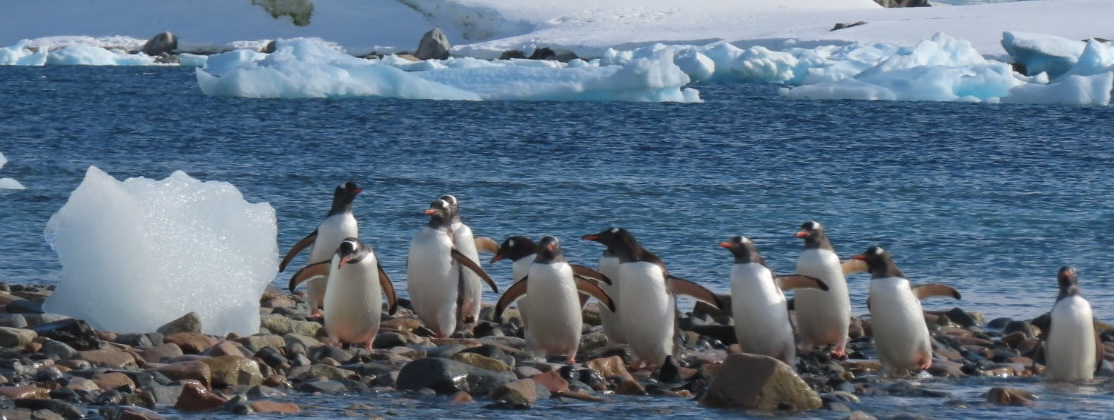
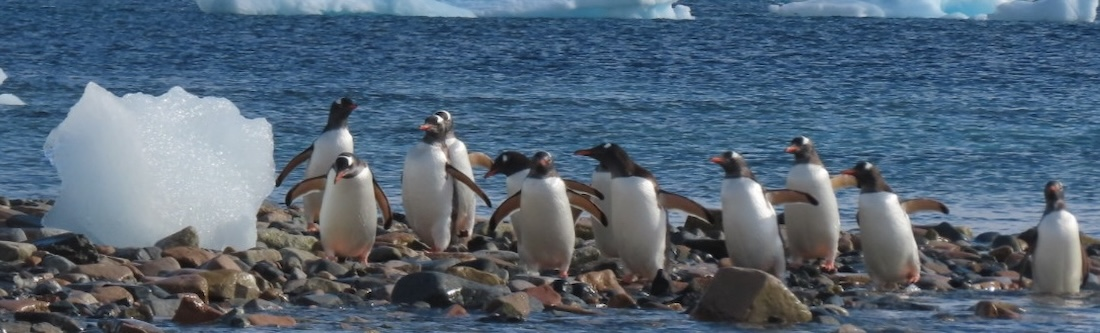
update to hero images

diff --git a/Travel/disney.html b/Travel/disney.html
@@ -6,12 +6,12 @@
 </style>
 
 <div class="container my-5">
-   <div class="hero" data-hero="../Images/ThemeParks/Disney2.jpeg">
+  <div class="hero" data-hero="../Images/HeroImages/disney-hero">
     <div class="hero-content text-center">
       <h1 class="hero-title">Disney Vacation Packages</h1>
     </div>
   </div>
-  
+
   <br />
   <p class="intro-text">
     You love Disney--so do we! Regan is a Disney World Passholder and loves
@@ -23,42 +23,49 @@
   </p>
 
   <div class="gallery">
-      <div class="row g-3 justify-content-center">
-        <div class="col-6 col-md-4 col-lg-2">
-          <img
-            src="../Images/ThemeParks/Disney5.jpeg"
-            alt=""
-            class="img-fluid rounded shadow-sm"
-          />
-        </div>
-        <div class="col-6 col-md-4 col-lg-2">
-          <img
-            src="../Images/ThemeParks/Disney1.jpeg"
-            alt=""
-            class="img-fluid rounded shadow-sm"
-          />
-        </div>
-        <div class="col-6 col-md-4 col-lg-2">
-          <img
-            src="../Images/ThemeParks/Disney3.jpeg"
-            alt=""
-            class="img-fluid rounded shadow-sm"
-          />
-        </div>
-        <div class="col-6 col-md-4 col-lg-2">
-          <img
-            src="../Images/ThemeParks/Disney4.jpeg"
-            alt=""
-            class="img-fluid rounded shadow-sm"
-          />
-        </div>
-                <div class="col-6 col-md-4 col-lg-2">
-          <img
-            src="../Images/ThemeParks/Disney6.jpeg"
-            alt=""
-            class="img-fluid rounded shadow-sm"
-          />
-        </div>
+    <div class="row g-3 justify-content-center">
+      <div class="col-6 col-md-4 col-lg-2">
+        <img
+          src="../Images/ThemeParks/Disney5.jpeg"
+          alt=""
+          class="img-fluid rounded shadow-sm"
+        />
       </div>
+      <div class="col-6 col-md-4 col-lg-2">
+        <img
+          src="../Images/ThemeParks/Disney2.jpeg"
+          alt=""
+          class="img-fluid rounded shadow-sm"
+        />
+      </div>
+      <div class="col-6 col-md-4 col-lg-2">
+        <img
+          src="../Images/ThemeParks/Disney1.jpeg"
+          alt=""
+          class="img-fluid rounded shadow-sm"
+        />
+      </div>
+      <div class="col-6 col-md-4 col-lg-2">
+        <img
+          src="../Images/ThemeParks/Disney3.jpeg"
+          alt=""
+          class="img-fluid rounded shadow-sm"
+        />
+      </div>
+      <div class="col-6 col-md-4 col-lg-2">
+        <img
+          src="../Images/ThemeParks/Disney4.jpeg"
+          alt=""
+          class="img-fluid rounded shadow-sm"
+        />
+      </div>
+      <div class="col-6 col-md-4 col-lg-2">
+        <img
+          src="../Images/ThemeParks/Disney6.jpeg"
+          alt=""
+          class="img-fluid rounded shadow-sm"
+        />
+      </div>
+    </div>
   </div>
 </div>

diff --git a/Travel/whales.html b/Travel/whales.html
@@ -6,7 +6,7 @@
 </style>
 
 <div class="container my-5">
-         <div class="hero" data-hero="../Images/Churchill/Churchill33.jpeg">
+         <div class="hero" data-hero="../Images/HeroImages/whale-hero.jpeg">
     <div class="hero-content text-center">
       <h1 class="hero-title">Whale Adventures</h1>
     </div>
@@ -40,6 +40,18 @@
           <div class="col-6 col-md-4 col-lg-2">
             <img
               src="Images/FrenchPolynesia/FrenchPolynesia9.jpeg"
+              class="img-fluid rounded shadow-sm"
+            />
+          </div>
+                    <div class="col-6 col-md-4 col-lg-2">
+            <img
+              src="Images/Iceland/Iceland16.jpeg"
+              class="img-fluid rounded shadow-sm"
+            />
+          </div>
+                    <div class="col-6 col-md-4 col-lg-2">
+            <img
+              src="Images/Iceland/Iceland17.jpeg"
               class="img-fluid rounded shadow-sm"
             />
           </div>

diff --git a/specials.html b/specials.html
@@ -1,5 +1,5 @@
   <div class="container my-5">
-  <div class="hero" data-hero="../Images/18RiverCruise/18RiverCruise1.jpeg">
+  <div class="hero" data-hero="../Images/HeroImages/specials-hero">
   <div class="hero-content text-center">
     <h1 class="hero-title">Specials</h1>
      <p class="hero-p">Check back here for our latest specials, or sign up for our newsletter to be kept up-to-date!</p>

diff --git a/Travel/polarbears.html b/Travel/polarbears.html
@@ -13,7 +13,7 @@
     <ul id="toc-list" class="list-unstyled mb-0"></ul>
   </div>
 
-  <div class="hero" data-hero="../Images/Churchill/Churchill33.jpeg">
+  <div class="hero" data-hero="../Images/HeroImages/polarbear-hero.jpeg">
     <div class="hero-content text-center">
       <h1 class="hero-title">
         In Search of the Polar Bear (<i>Ursus maritimus</i>)

diff --git a/Travel/hikingadventures.html b/Travel/hikingadventures.html
@@ -49,7 +49,7 @@
   <ul id="toc-list" class="list-unstyled mb-0"></ul>
 </div>
 
-  <div class="hero" data-hero="../Images/Nepal/Nepal7.jpeg">
+  <div class="hero" data-hero="../Images/HeroImages/hiking-hero.jpeg">
     <div class="hero-content text-center">
       <h1 class="hero-title">
         Fabulous Hikes and Thrill-Seeking Around the World

diff --git a/Travel/universal.html b/Travel/universal.html
@@ -6,7 +6,7 @@
 </style>
 
 <div class="container my-5">
-  <div class="hero" data-hero="../Images/ThemeParks/Universal3.jpeg">
+  <div class="hero" data-hero="../Images/HeroImages/universal-hero.jpeg">
     <div class="hero-content text-center">
       <h1 class="hero-title">Universal Studios Vacation Packages</h1>
     </div>

diff --git a/Travel/theater.html b/Travel/theater.html
@@ -7,7 +7,7 @@
 
 <div class="container my-5">
   <div class="container my-5"></div>
-  <div class="hero" data-hero="../Images/19Safari/19Safari27.jpeg">
+  <div class="hero" data-hero="../Images/HeroImages/theater-hero">
     <div class="hero-content text-center">
       <h1 class="hero-title">Musical Theater</h1>
     </div>

diff --git a/Travel/safaris.html b/Travel/safaris.html
@@ -86,7 +86,7 @@
   <ul id="toc-list" class="list-unstyled mb-0"></ul>
 </div>
 
-  <div class="hero" data-hero="../Images/19Safari/19Safari27.jpeg">
+  <div class="hero" data-hero="../Images/HeroImages/safari-hero.jpeg">
     <div class="hero-content text-center">
       <h1 class="hero-title">Safaris</h1>
     </div>

diff --git a/Travel/expeditioncruises.html b/Travel/expeditioncruises.html
@@ -6,7 +6,7 @@
 </style>
 
 <div class="container my-5">
-     <div class="hero" data-hero="../Images/Svalbard/Svalbard12.jpeg">
+     <div class="hero" data-hero="../Images/HeroImages/expedition-hero.jpeg">
     <div class="hero-content text-center">
       <h1 class="hero-title">Expedition Cruises</h1>
     </div>

diff --git a/travelagentbenefits.html b/travelagentbenefits.html
@@ -1,6 +1,6 @@
 
 <div class="container my-5">
-  <div class="hero" data-hero="../Images/19Safari/19Safari1.jpeg">
+  <div class="hero" data-hero="../Images/HeroImages/benefits-hero.jpeg">
   <div class="hero-content text-center">
     <h1 class="hero-title">Benefits of Booking Through a Travel Agent</h1>
   </div>

diff --git a/reviews.html b/reviews.html
@@ -1,5 +1,5 @@
 <div class="container my-5">
-  <div class="hero" data-hero="../Images/19Safari/19Safari1.jpeg">
+  <div class="hero" data-hero="../Images/HeroImages/reviews-hero.jpeg">
     <div class="hero-content text-center">
       <h1 class="hero-title">See What Our Clients Have to Say</h1>
     </div>

diff --git a/Travel/cruises.html b/Travel/cruises.html
@@ -7,7 +7,7 @@
   
   
   <div class="container my-5">
-  <div class="hero" data-hero="../Images/18RiverCruise/18RiverCruise1.jpeg">
+  <div class="hero" data-hero="../Images/HeroImages/cruise-hero.jpeg">
   <div class="hero-content text-center">
     <h1 class="hero-title">Cruises</h1>
   </div>
